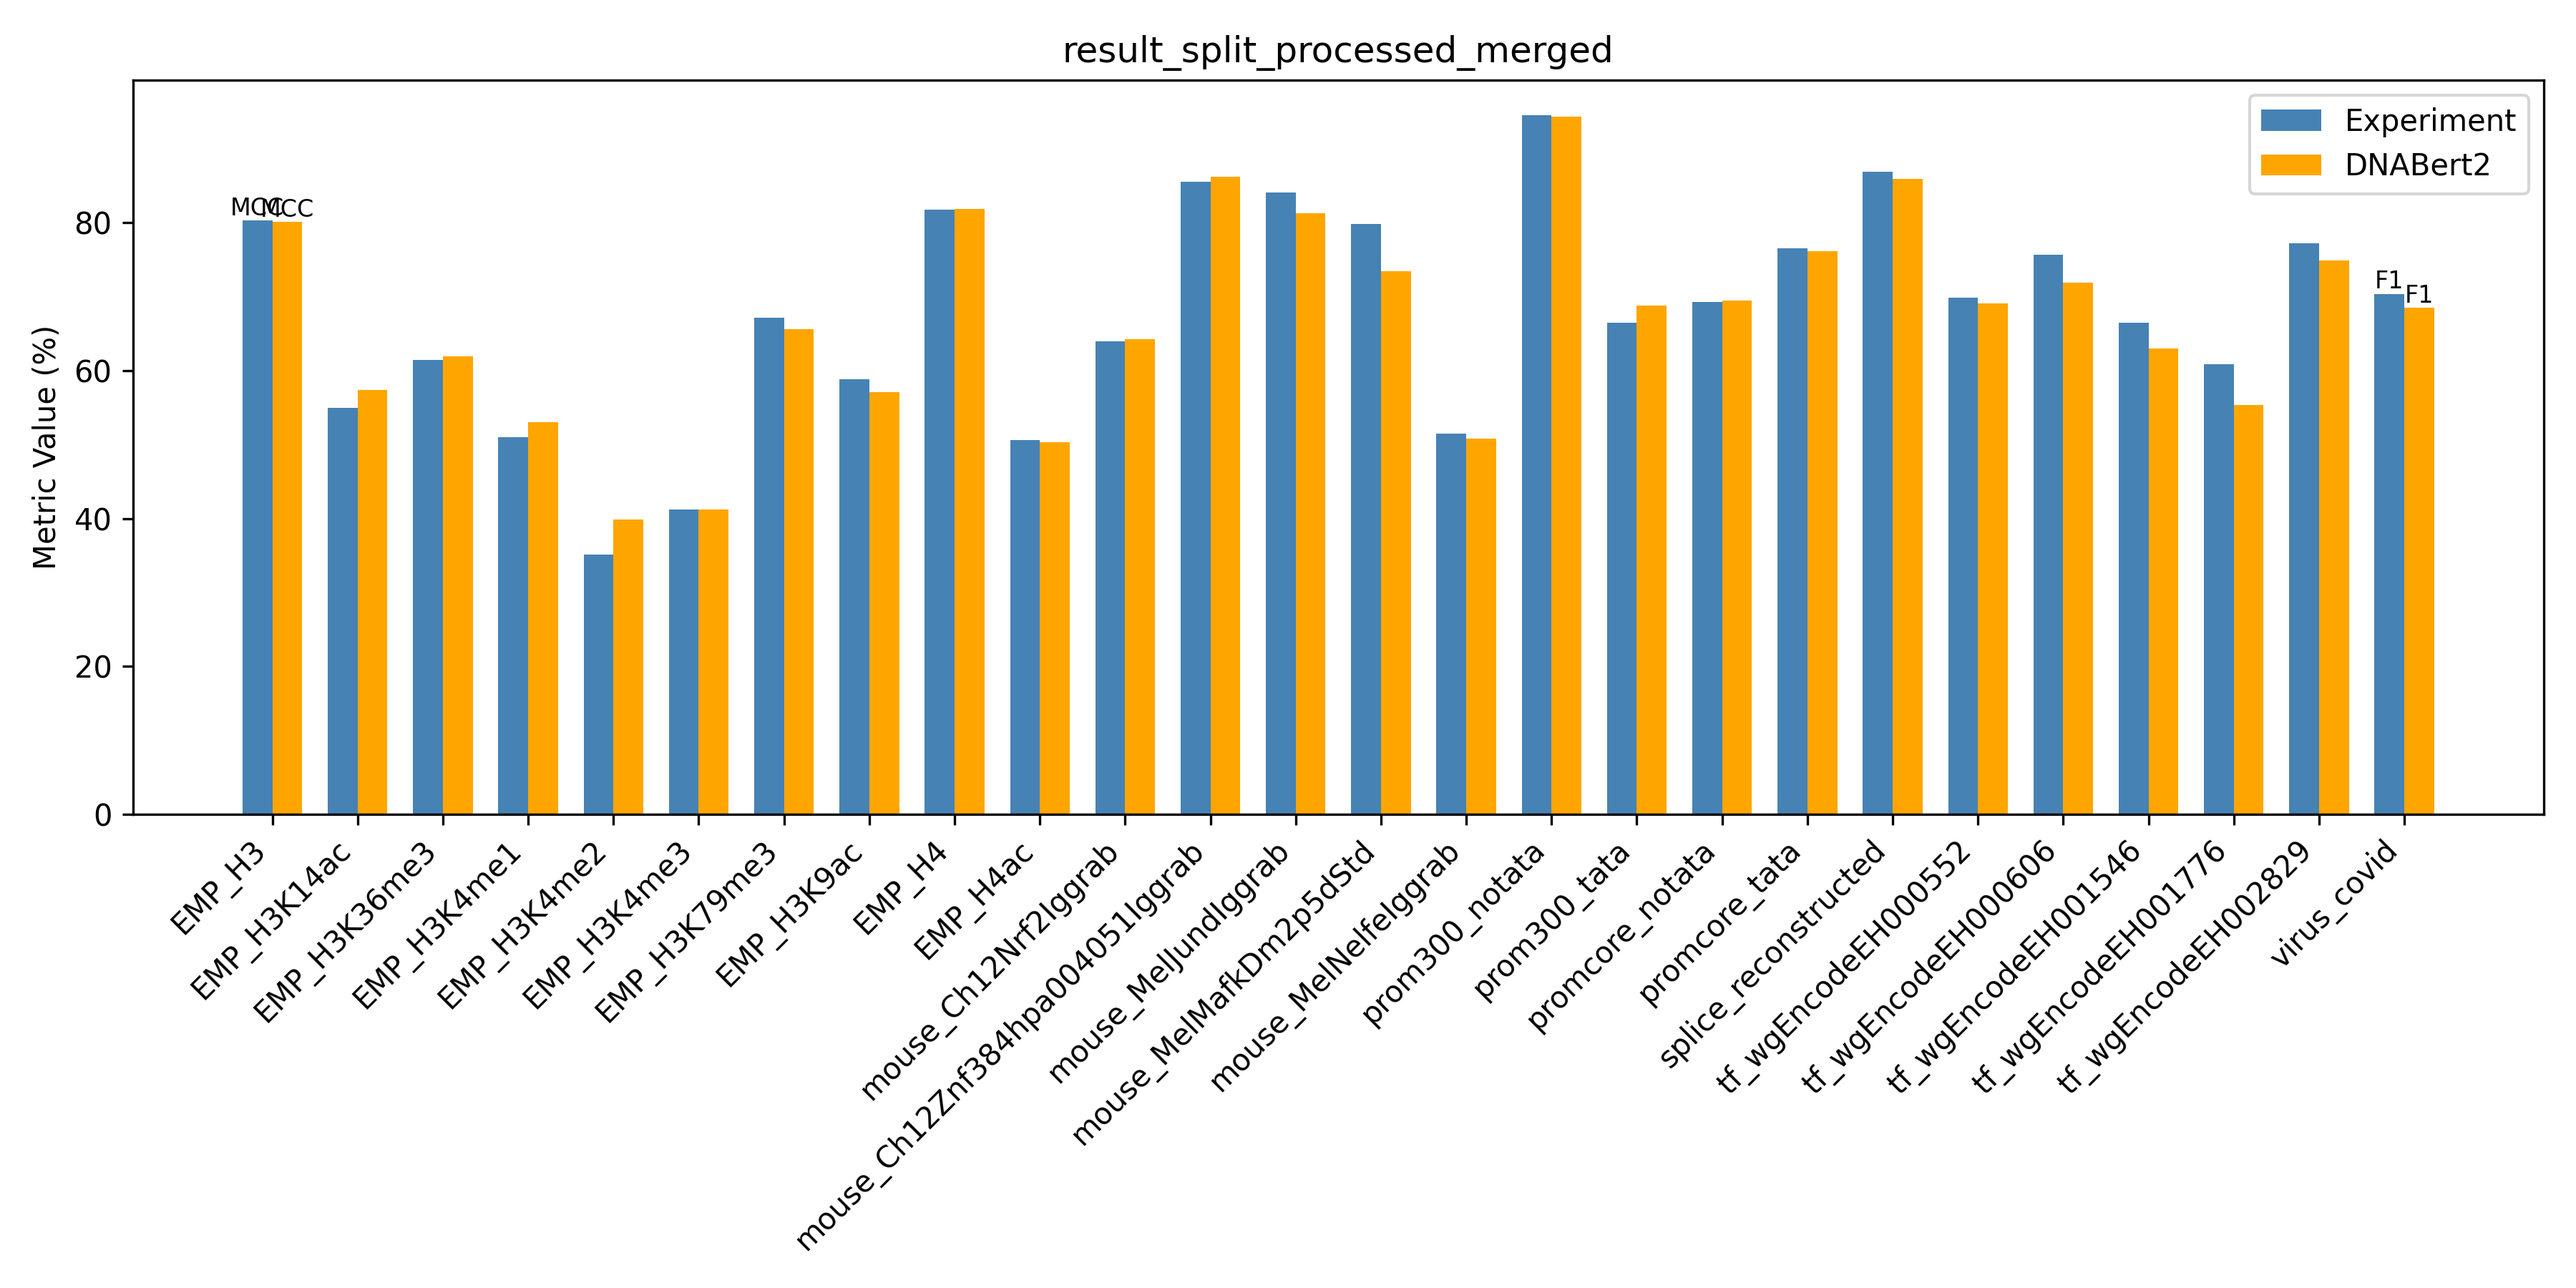
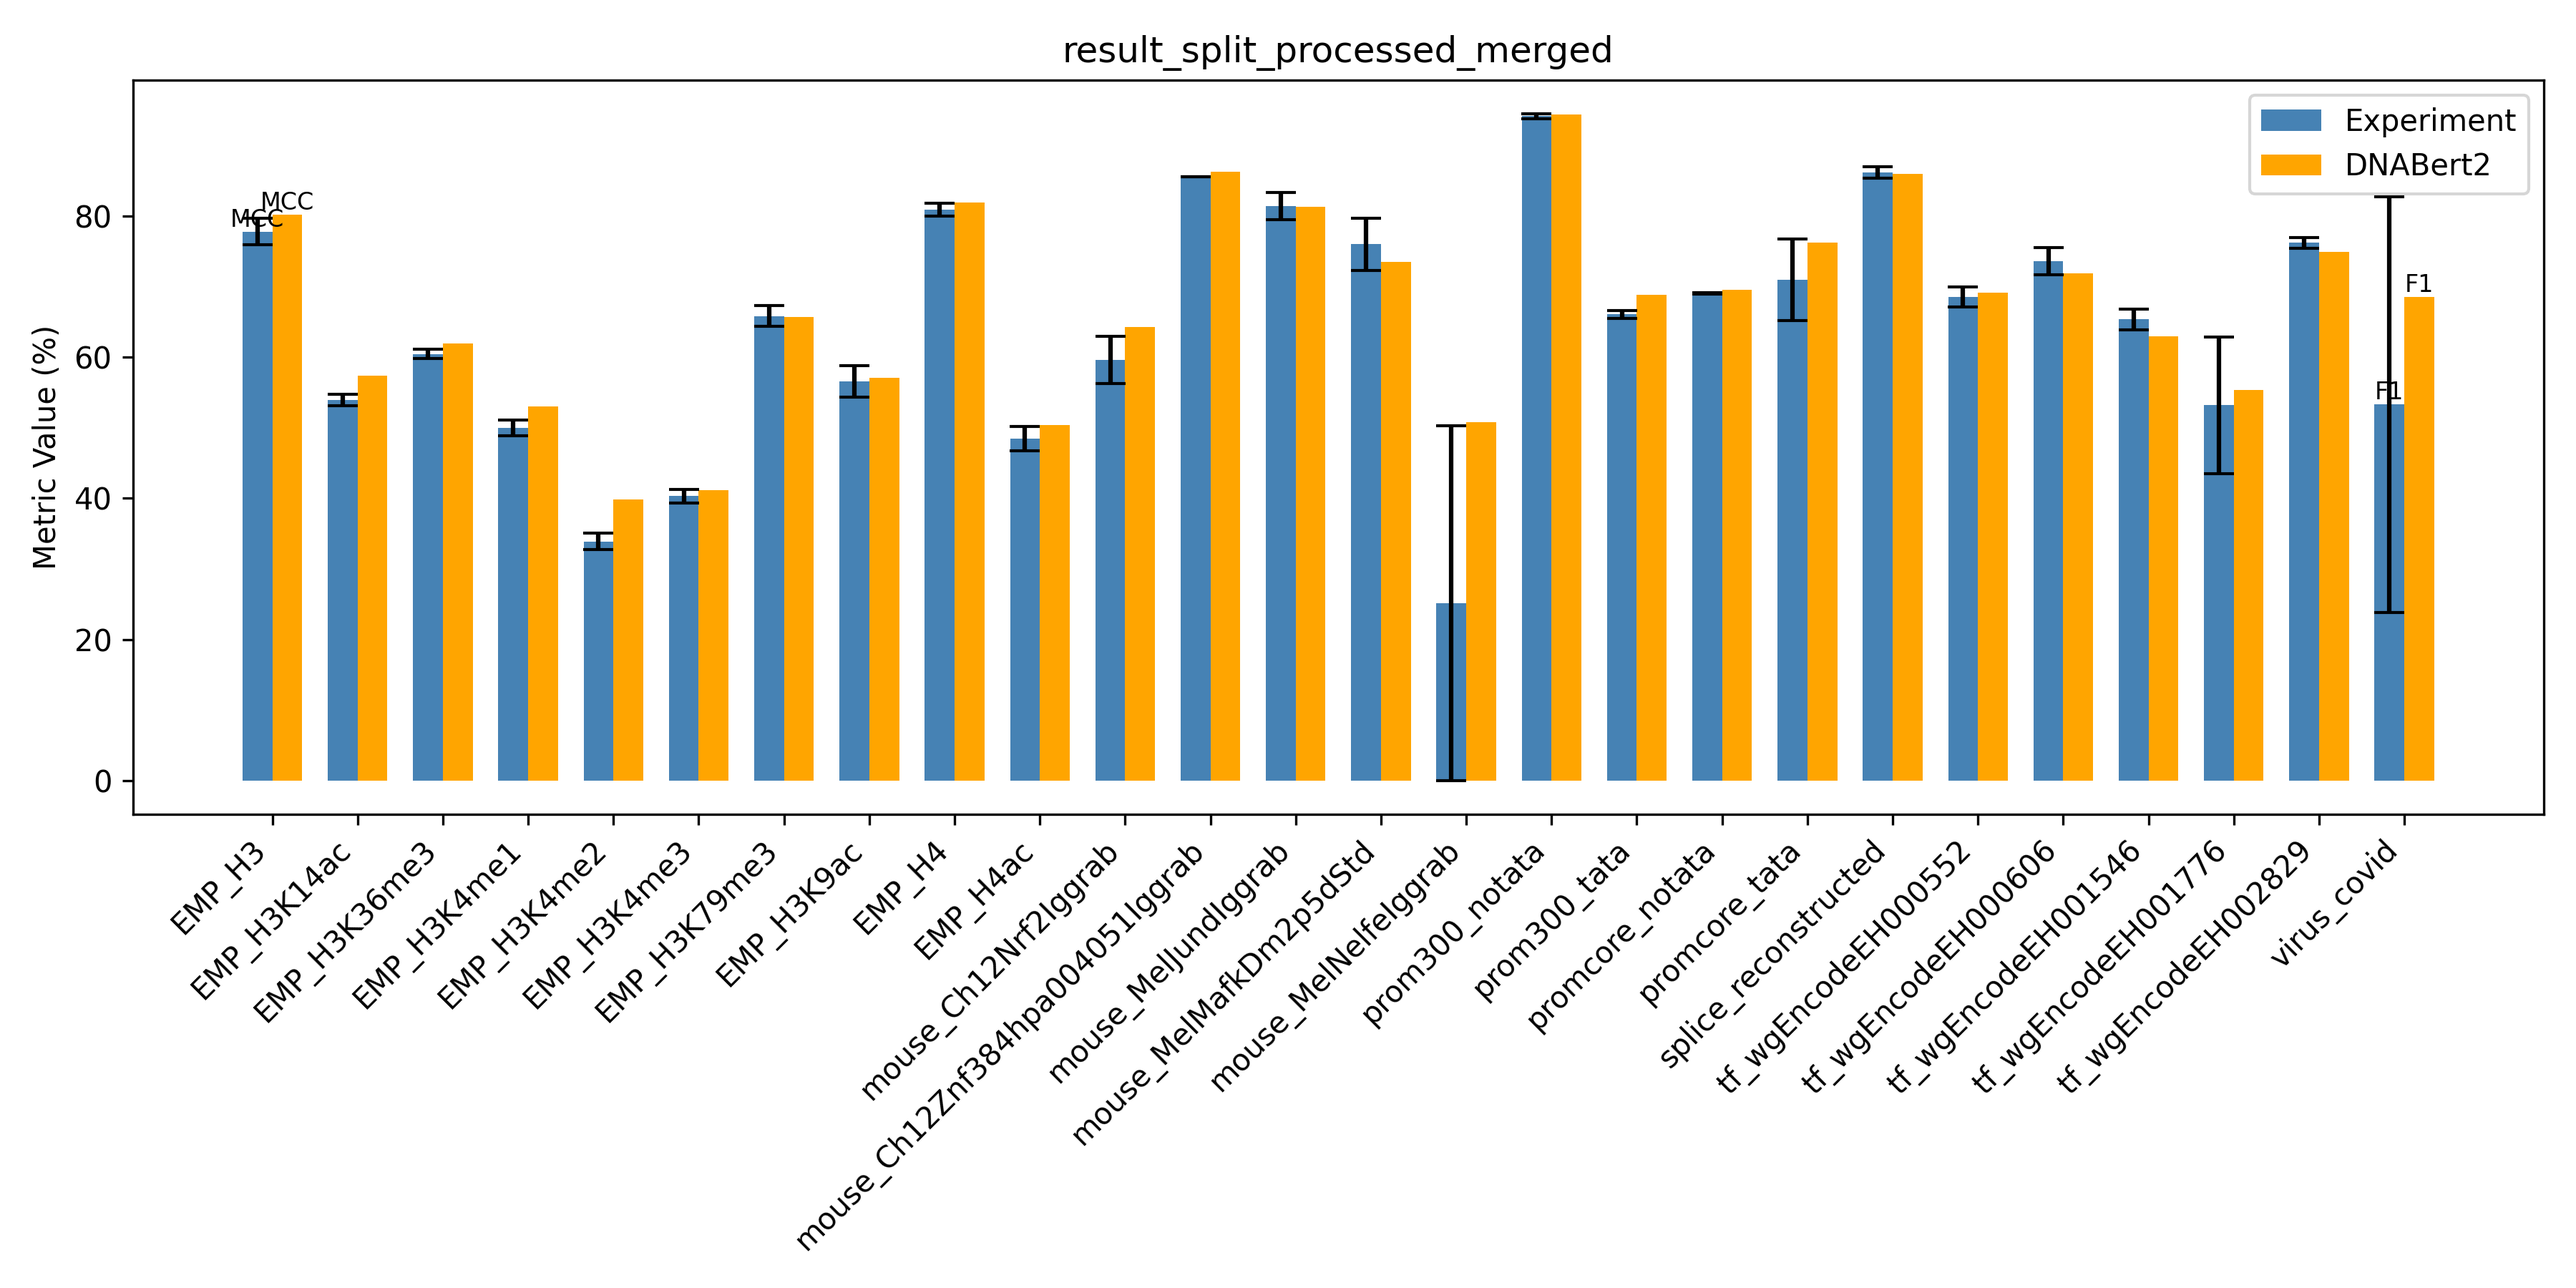
plot_result.py add error bar

diff --git a/src/process_exp_result/plot_result.py b/src/process_exp_result/plot_result.py
@@ -21,11 +21,8 @@ in_file_path = os.path.join(".", "process_exp_result","processed_result", "proce
 
 
 # 读取你的合并结果文件
-df = pd.read_excel(in_file_path)  # 替换为你实际的文件路径
+df = pd.read_excel(in_file_path)  
 
-# 修改 df 的 values, 需要乘上 100
-df['test_MCC_best'] = df['test_MCC_best'] * 100
-df['test_F1_best'] = df['test_F1_best'] * 100
 
 # 添加 label 字段
 df['label'] = df['task_name_test'] + '_' + df['subset_name_test']
@@ -37,23 +34,36 @@ width = 0.35
 
 # 初始化数据列
 bar1_values = []
+bar1_errors = []
 bar2_values = []
 bar_labels = []
 
 for idx, row in df.iterrows():
     if row['task_name_test'] == 'virus':
-        bar1_values.append(row['test_F1_best'])
+        # F1：从 test_F1_list 中计算均值和 std
+        f1_list = eval(row['test_F1_list'])  # 如果是字符串格式的 list
+        f1_list = [v * 100 for v in f1_list]  # 转为百分数
+        bar1_values.append(np.mean(f1_list))
+        bar1_errors.append(np.std(f1_list))
         bar2_values.append(row['test_F1_DNABert2'])
         bar_labels.append('F1')
     else:
-        bar1_values.append(row['test_MCC_best'])
+        # MCC：从 test_MCC_list 中计算均值和 std
+        mcc_list = eval(row['test_MCC_list'])
+        mcc_list = [v * 100 for v in mcc_list]
+        bar1_values.append(np.mean(mcc_list))
+        bar1_errors.append(np.std(mcc_list))
         bar2_values.append(row['test_MCC_DNABert2'])
         bar_labels.append('MCC')
 
 # 画图
 fig, ax = plt.subplots(figsize=(12, 6))
 
-bar1 = ax.bar(x - width/2, bar1_values, width, label='Experiment', color='steelblue')
+# Bar1: 实验结果 + error bar
+bar1 = ax.bar(x - width/2, bar1_values, width, yerr=bar1_errors, 
+              label='Experiment', color='steelblue', capsize=5)
+
+# Bar2: DNABert2 单值
 bar2 = ax.bar(x + width/2, bar2_values, width, label='DNABert2', color='orange')
 
 # 横轴设置
